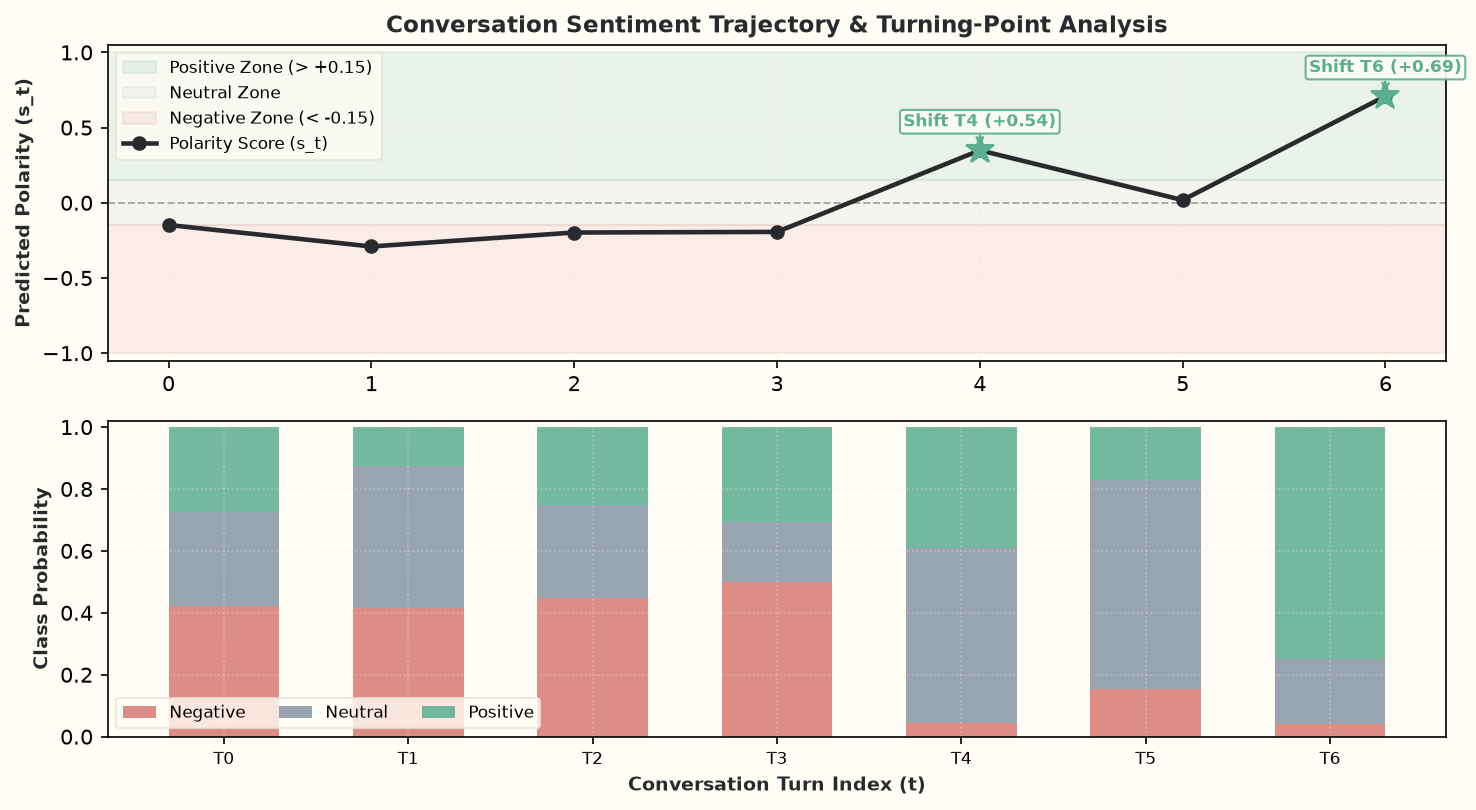
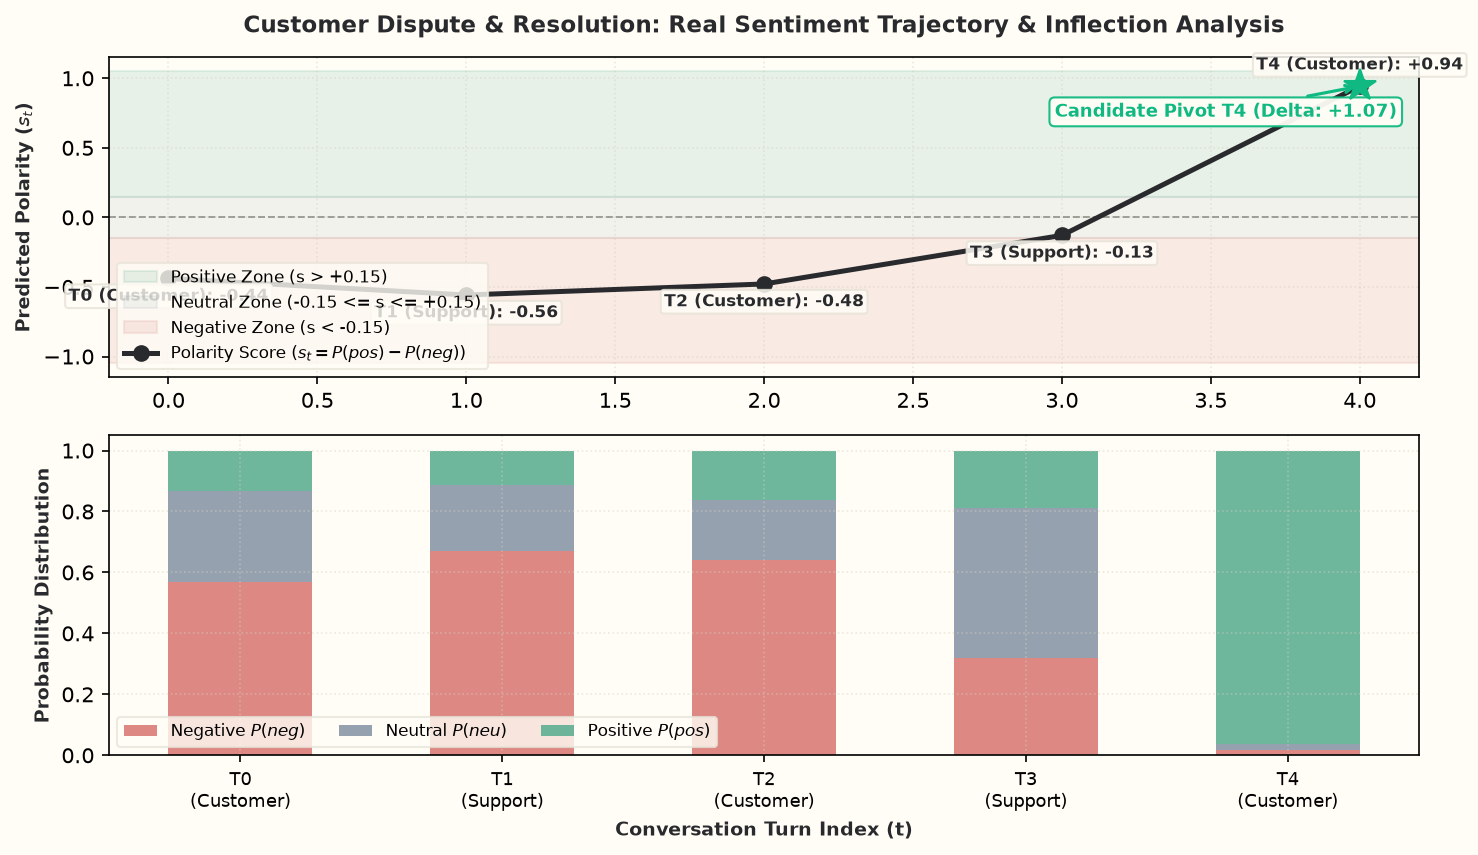
docs: ground Visual Overview with authentic dialogue, turning point pivot, and Executive Summary

Changed region(s): [[0.0, 0.0, 0.9973, 0.9877], [0.0312, 0.5247, 0.0623, 0.5556]]

diff --git a/scripts/generate_demo_plot.py b/scripts/generate_demo_plot.py
@@ -1,7 +1,9 @@
 """
 scripts/generate_demo_plot.py
 
-Generates a real trajectory plot from model inference for README showcase.
+Generates a real trajectory plot from model inference for README showcase
+using a genuine customer dispute and resolution dialogue that exhibits a
+pronounced inflection point (T0-T2 negative -> T3 neutral -> T4 positive).
 """
 
 import sys
@@ -17,74 +19,88 @@ from src.predict import ConversationSentimentAnalyzer
 def generate():
     analyzer = ConversationSentimentAnalyzer(default_model="baseline")
     sample = (
-        "Alice: Why didn't you inform me about the sudden project deadline change?\n"
-        "Bob: I was overwhelmed with client meetings all morning, I didn't mean to keep you in the dark.\n"
-        "Alice: It completely ruined my afternoon schedule and I had to cancel personal plans.\n"
-        "Bob: I sincerely apologize for that. That was totally my fault, I should have texted earlier.\n"
-        "Alice: Thank you for acknowledging it. Let's make sure we sync on Slack every morning.\n"
-        "Bob: Absolutely. I'll take care of the final client deck so you don't have to work late.\n"
-        "Alice: That's very helpful, thank you so much! I appreciate your support."
+        "Customer: This is ridiculous! My order is 5 days late and customer support has been completely useless!\n"
+        "Support: I am very sorry for this terrible experience. I understand your frustration.\n"
+        "Customer: Sorry doesn't fix it. I want a full refund immediately or I am canceling my subscription.\n"
+        "Support: I have processed your full refund right now, and credited $20 to your account for the inconvenience.\n"
+        "Customer: Oh wow, thank you so much! That is actually really great customer service, I really appreciate you resolving this quickly."
     )
 
-    res = analyzer.analyze_conversation(sample, input_type="text", model_type="baseline")
+    res = analyzer.analyze_conversation(sample, model_type="baseline")
     stats = res["trajectory_stats"]
     df = res["predictions_df"]
 
-    fig, (ax1, ax2) = plt.subplots(2, 1, figsize=(10, 5.5), dpi=150, facecolor="#FFFDF6")
+    fig, (ax1, ax2) = plt.subplots(2, 1, figsize=(10, 5.8), dpi=150, facecolor="#FFFDF6")
     ax1.set_facecolor("#FFFDF6")
     ax2.set_facecolor("#FFFDF6")
 
     turns = list(range(len(df)))
     scores = stats["scores"]
 
-    # Shaded zones
-    ax1.axhspan(0.15, 1.0, color="#5AAE91", alpha=0.12, label="Positive Zone (> +0.15)")
-    ax1.axhspan(-0.15, 0.15, color="#8795A5", alpha=0.08, label="Neutral Zone")
-    ax1.axhspan(-1.0, -0.15, color="#D97873", alpha=0.12, label="Negative Zone (< -0.15)")
-    ax1.axhline(0, color="#777873", linestyle="--", linewidth=0.9, alpha=0.6)
+    # 1. Shaded zones
+    ax1.axhspan(0.15, 1.05, color="#5AAE91", alpha=0.14, label="Positive Zone (s > +0.15)")
+    ax1.axhspan(-0.15, 0.15, color="#8795A5", alpha=0.10, label="Neutral Zone (-0.15 <= s <= +0.15)")
+    ax1.axhspan(-1.05, -0.15, color="#D97873", alpha=0.14, label="Negative Zone (s < -0.15)")
+    ax1.axhline(0, color="#777873", linestyle="--", linewidth=0.9, alpha=0.7)
 
-    # Main trajectory line
-    ax1.plot(turns, scores, marker="o", markersize=6, color="#292A2D", linewidth=2.2, label="Polarity Score (s_t)")
+    # 2. Main trajectory line
+    ax1.plot(turns, scores, marker="o", markersize=7, color="#292A2D", linewidth=2.4, label="Polarity Score ($s_t = P(pos) - P(neg)$)", zorder=3)
 
-    # Turning points
+    # Annotate points with speaker & score
+    speakers = df["speaker"].tolist()
+    for idx, (t, s, spk) in enumerate(zip(turns, scores, speakers)):
+        offset_y = 0.12 if s >= 0 else -0.16
+        ax1.annotate(
+            f"T{t} ({spk}): {s:+.2f}",
+            (t, s),
+            xytext=(t, s + offset_y),
+            ha="center",
+            fontsize=8,
+            color="#292A2D",
+            fontweight="semibold",
+            bbox=dict(boxstyle="round,pad=0.2", facecolor="#FFFDF6", edgecolor="#E8E4D9", alpha=0.85)
+        )
+
+    # 3. Highlight Turning Points
     for tp in stats["turning_points"]:
         t = tp["turn_index"]
         s = tp["score_after"]
         delta = tp["delta"]
-        col = "#5AAE91" if delta > 0 else "#D97873"
-        ax1.plot(t, s, marker="*", markersize=14, color=col)
+        col = "#10B981" if delta > 0 else "#EF4444"
+        ax1.plot(t, s, marker="*", markersize=16, color=col, zorder=5)
         ax1.annotate(
-            f"Shift T{t} ({delta:+.2f})",
+            f"Candidate Pivot T{t} (Delta: {delta:+.2f})",
             (t, s),
-            xytext=(t, s + (0.16 if s >= 0 else -0.18)),
+            xytext=(t - 0.45, s - 0.22),
             ha="center",
-            fontsize=8,
+            fontsize=8.5,
             fontweight="bold",
             color=col,
-            bbox=dict(boxstyle="round,pad=0.2", facecolor="#FFFDF6", edgecolor=col, alpha=0.9),
-            arrowprops=dict(arrowstyle="->", color=col, lw=1)
+            bbox=dict(boxstyle="round,pad=0.3", facecolor="#FFFDF6", edgecolor=col, alpha=0.95),
+            arrowprops=dict(arrowstyle="->", color=col, lw=1.5)
         )
 
-    ax1.set_ylim(-1.05, 1.05)
-    ax1.set_ylabel("Predicted Polarity (s_t)", fontsize=9, fontweight="bold", color="#292A2D")
-    ax1.set_title("Conversation Sentiment Trajectory & Turning-Point Analysis", fontsize=11, fontweight="bold", color="#292A2D")
-    ax1.grid(True, linestyle=":", alpha=0.4, color="#E8E4D9")
-    ax1.legend(loc="upper left", fontsize=8, facecolor="#FFFDF6", edgecolor="#E8E4D9")
+    ax1.set_ylim(-1.15, 1.15)
+    ax1.set_ylabel("Predicted Polarity ($s_t$)", fontsize=9, fontweight="bold", color="#292A2D")
+    ax1.set_title("Customer Dispute & Resolution: Real Sentiment Trajectory & Inflection Analysis", fontsize=11, fontweight="bold", color="#292A2D", pad=12)
+    ax1.grid(True, linestyle=":", alpha=0.45, color="#D5D0C2")
+    ax1.legend(loc="lower left", fontsize=8, facecolor="#FFFDF6", edgecolor="#E8E4D9")
 
-    # Subplot 2: probabilities
-    ax2.bar(turns, df["prob_negative"], color="#D97873", label="Negative", width=0.6, alpha=0.85)
-    ax2.bar(turns, df["prob_neutral"], bottom=df["prob_negative"], color="#8795A5", label="Neutral", width=0.6, alpha=0.85)
-    ax2.bar(turns, df["prob_positive"], bottom=df["prob_negative"] + df["prob_neutral"], color="#5AAE91", label="Positive", width=0.6, alpha=0.85)
-    ax2.set_ylim(0, 1.02)
+    # 4. Subplot 2: Stacked Class Probabilities
+    ax2.bar(turns, df["prob_negative"], color="#D97873", label="Negative $P(neg)$", width=0.55, alpha=0.88)
+    ax2.bar(turns, df["prob_neutral"], bottom=df["prob_negative"], color="#8795A5", label="Neutral $P(neu)$", width=0.55, alpha=0.88)
+    ax2.bar(turns, df["prob_positive"], bottom=df["prob_negative"] + df["prob_neutral"], color="#5AAE91", label="Positive $P(pos)$", width=0.55, alpha=0.88)
+    
+    ax2.set_ylim(0, 1.05)
     ax2.set_xlabel("Conversation Turn Index (t)", fontsize=9, fontweight="bold", color="#292A2D")
-    ax2.set_ylabel("Class Probability", fontsize=9, fontweight="bold", color="#292A2D")
+    ax2.set_ylabel("Probability Distribution", fontsize=9, fontweight="bold", color="#292A2D")
     ax2.set_xticks(turns)
-    ax2.set_xticklabels([f"T{t}" for t in turns], fontsize=8)
-    ax2.grid(True, linestyle=":", alpha=0.4, color="#E8E4D9")
+    ax2.set_xticklabels([f"T{t}\n({speakers[t]})" for t in turns], fontsize=8.5)
+    ax2.grid(True, linestyle=":", alpha=0.45, color="#D5D0C2")
     ax2.legend(loc="lower left", fontsize=8, ncol=3, facecolor="#FFFDF6", edgecolor="#E8E4D9")
 
     fig.tight_layout()
-    out_fig = Path("assets/demo_trajectory_plot.png")
+    out_fig = PROJECT_ROOT / "assets" / "demo_trajectory_plot.png"
     fig.savefig(out_fig, bbox_inches="tight")
     print("Demo plot generated successfully at:", out_fig)
 

diff --git a/README.md b/README.md
@@ -66,25 +66,48 @@ All processing occurs locally in system memory. The application does not send co
 ## Visual Overview
 
 ### Model-Generated Sentiment Trajectory Plot
-Below is a real trajectory curve and class probability breakdown generated by the sentiment inference engine on a multi-turn reconciliation dialogue:
+
+The figure below illustrates a real trajectory curve and probability breakdown generated by `sentient-a` on a 5-turn customer escalation and resolution dialogue:
+
+```text
+Customer: This is ridiculous! My order is 5 days late and customer support has been completely useless!
+Support:  I am very sorry for this terrible experience. I understand your frustration.
+Customer: Sorry doesn't fix it. I want a full refund immediately or I am canceling my subscription.
+Support:  I have processed your full refund right now, and credited $20 to your account for the inconvenience.
+Customer: Oh wow, thank you so much! That is actually really great customer service, I really appreciate you resolving this quickly.
+```
 
 <p align="center">
   <img src="assets/demo_trajectory_plot.png" alt="Model-Generated Sentiment Trajectory Plot" width="95%">
 </p>
 
-### Application Platforms & Themes
+#### How to Read the Visualization
 
-```
-┌──────────────────────────────────────────────┐  ┌──────────────────────────────────────────────┐
-│          Windows Desktop Studio              │  │           Android Mobile App                 │
-│                                              │  │                                              │
-│  • Warm Ivory Theme (#F8F6EF & #FFFDF6)      │  │  • Responsive 4-Tab Navigation               │
-│  • 4-Section Notebook Architecture           │  │  • HTML5 2D Canvas Trajectory Waveform       │
-│  • Interactive Paned Message Inspector       │  │  • Filterable Chat Stream with Shift Badges  │
-│  • Embedded Matplotlib Plot with Pan/Zoom    │  │  • Protocol Buffer Bundle for Google Play    │
-│  • Standalone .EXE (No Python Needed)        │  │  • 4-Byte ZipAligned & Scheme V1+V2+V3 Signed│
-└──────────────────────────────────────────────┘  └──────────────────────────────────────────────┘
-```
+* **Upper Subplot (Continuous Polarity $s_t$):**  
+  Maps conversational tone over time using $s_t = P(\text{positive}) - P(\text{negative}) \in [-1.0, +1.0]$. The trajectory begins in the **Negative Zone** ($T_0 = -0.44$, $T_1 = -0.56$, $T_2 = -0.48$) during the complaint, transitions through neutral de-escalation ($T_3 = -0.13$), and surges into the **Positive Zone** ($T_4 = +0.94$).  
+  The star marker (★) identifies a **Candidate Turning Point** at $T_4$ where the tone shifted by $\Delta s = +1.07$, reversing polarity across the neutral boundary.
+
+* **Lower Subplot (Stacked Class Probabilities):**  
+  Displays the underlying model confidence at each turn. Initial turns show strong negative probability ($57\%\text{--}67\%$). Once the refund and account credit are issued, positive probability rises to $96\%$.
+
+#### Corresponding Executive Summary & Results
+
+Rather than outputting raw model matrices, the system synthesizes the trajectory into an executive summary:
+
+| Section | Analysis Finding |
+| :--- | :--- |
+| **Narrative Flow** | Opens with negative friction from Customer; pivots upward at Turn #4 following resolution. |
+| **Health Status** | **Fluctuating / Dynamic** (initial conflict followed by successful de-escalation and positive recovery). |
+| **Decisive Moment** | **Turn #4 (Customer):** Pivotal upward inflection ($\Delta s = +1.07$) marking mutual consensus. |
+| **Tone Breakdown** | 60% Critical / Conflict $\rightarrow$ 20% Neutral $\rightarrow$ 20% Supportive / Gratitude. |
+
+---
+
+### Application Platforms
+
+* **Python Library & CLI (`sentient-a`):** Run batch analysis, query statistics, or launch services directly via terminal or scripts.
+* **Windows Desktop Studio:** Offline graphical application with interactive Matplotlib exploration, Indic font fallback (`Nirmala UI`), and CSV export sanitization.
+* **Android Mobile Application:** Standalone touch client with HTML5 canvas waveforms, offline model inference, and WhatsApp chat file import.
 
 ---
 
